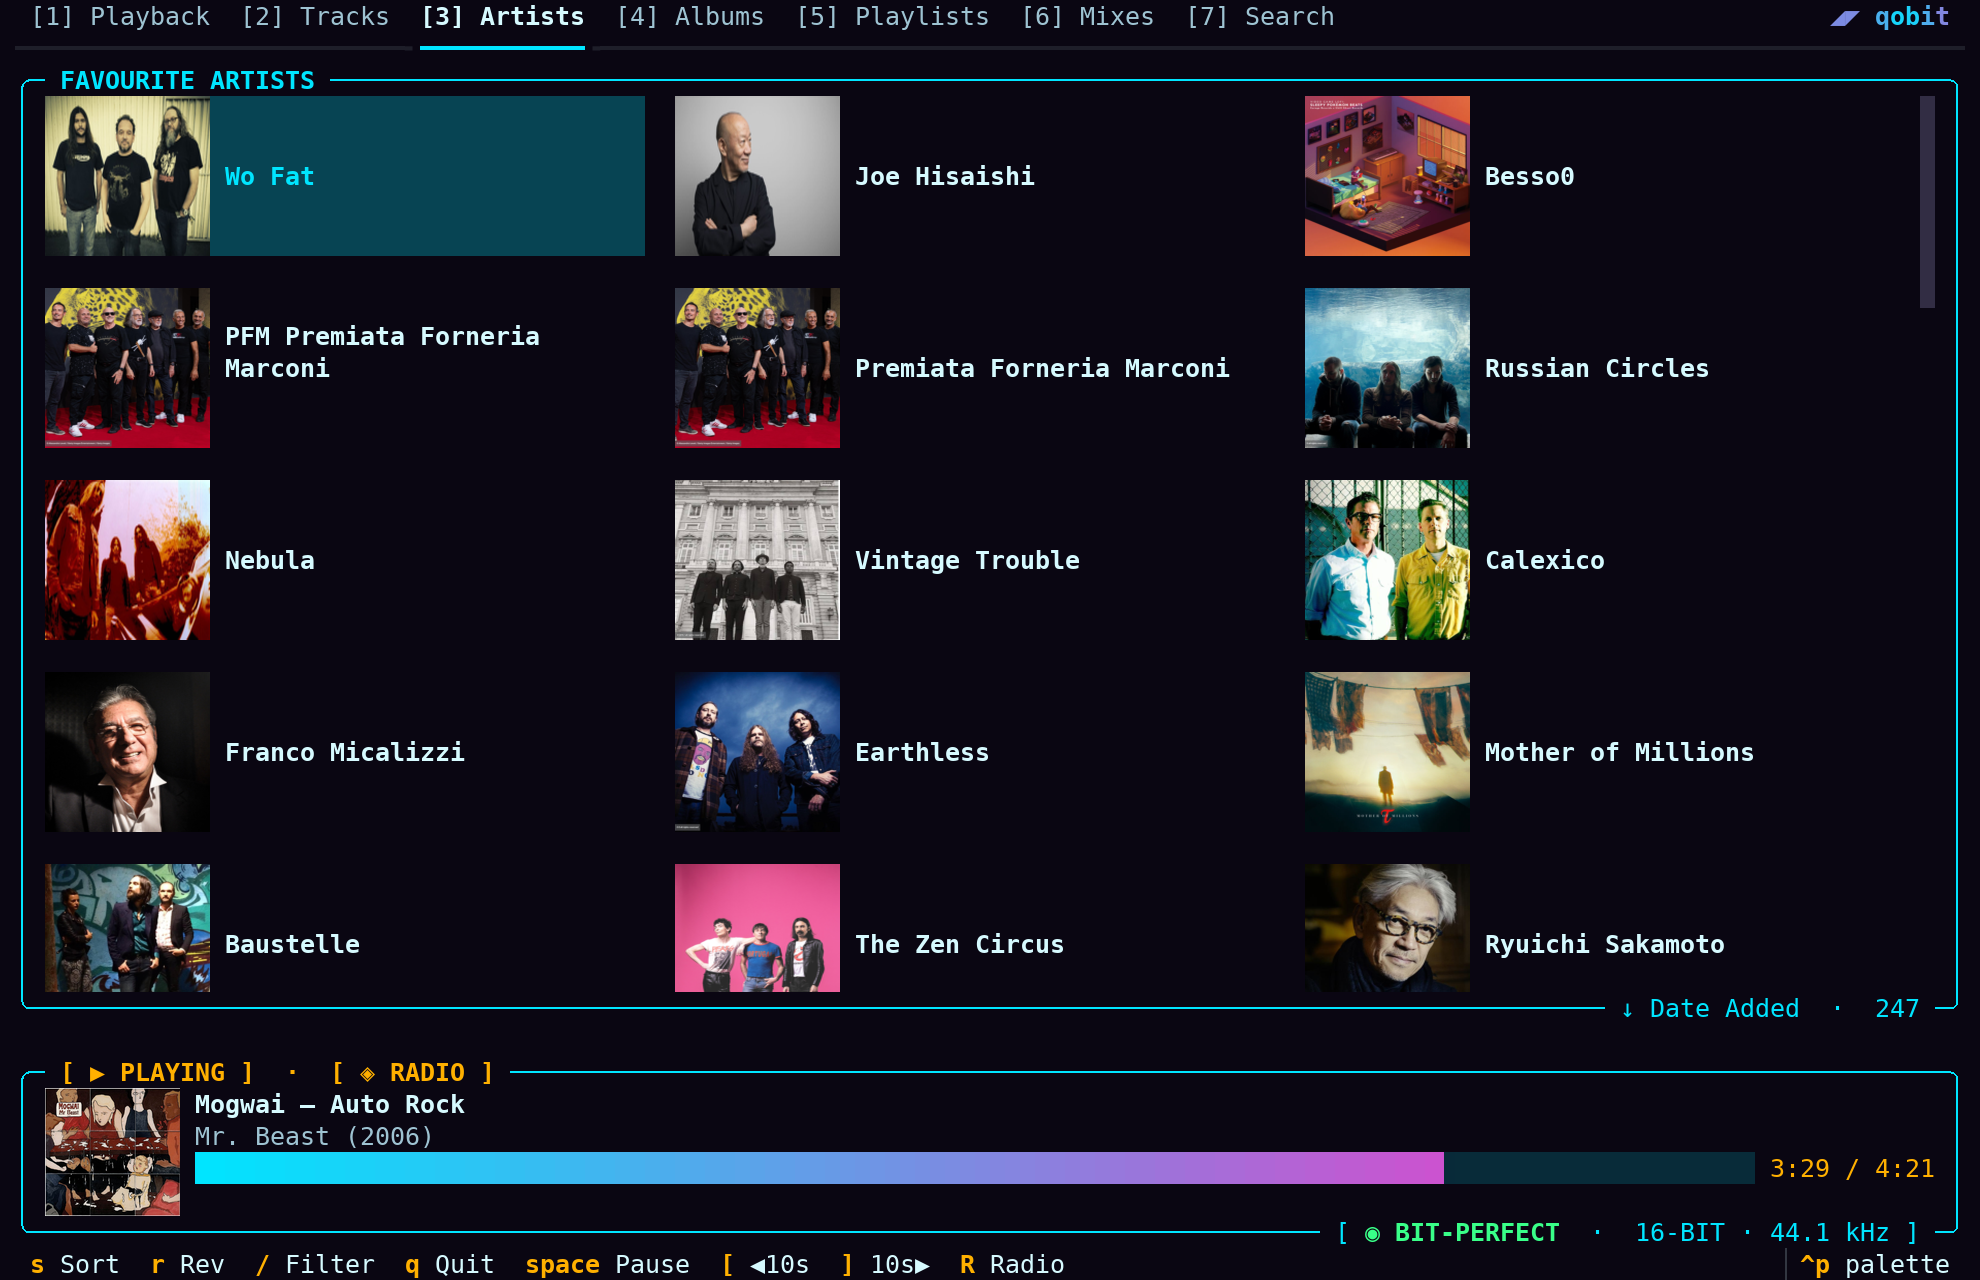
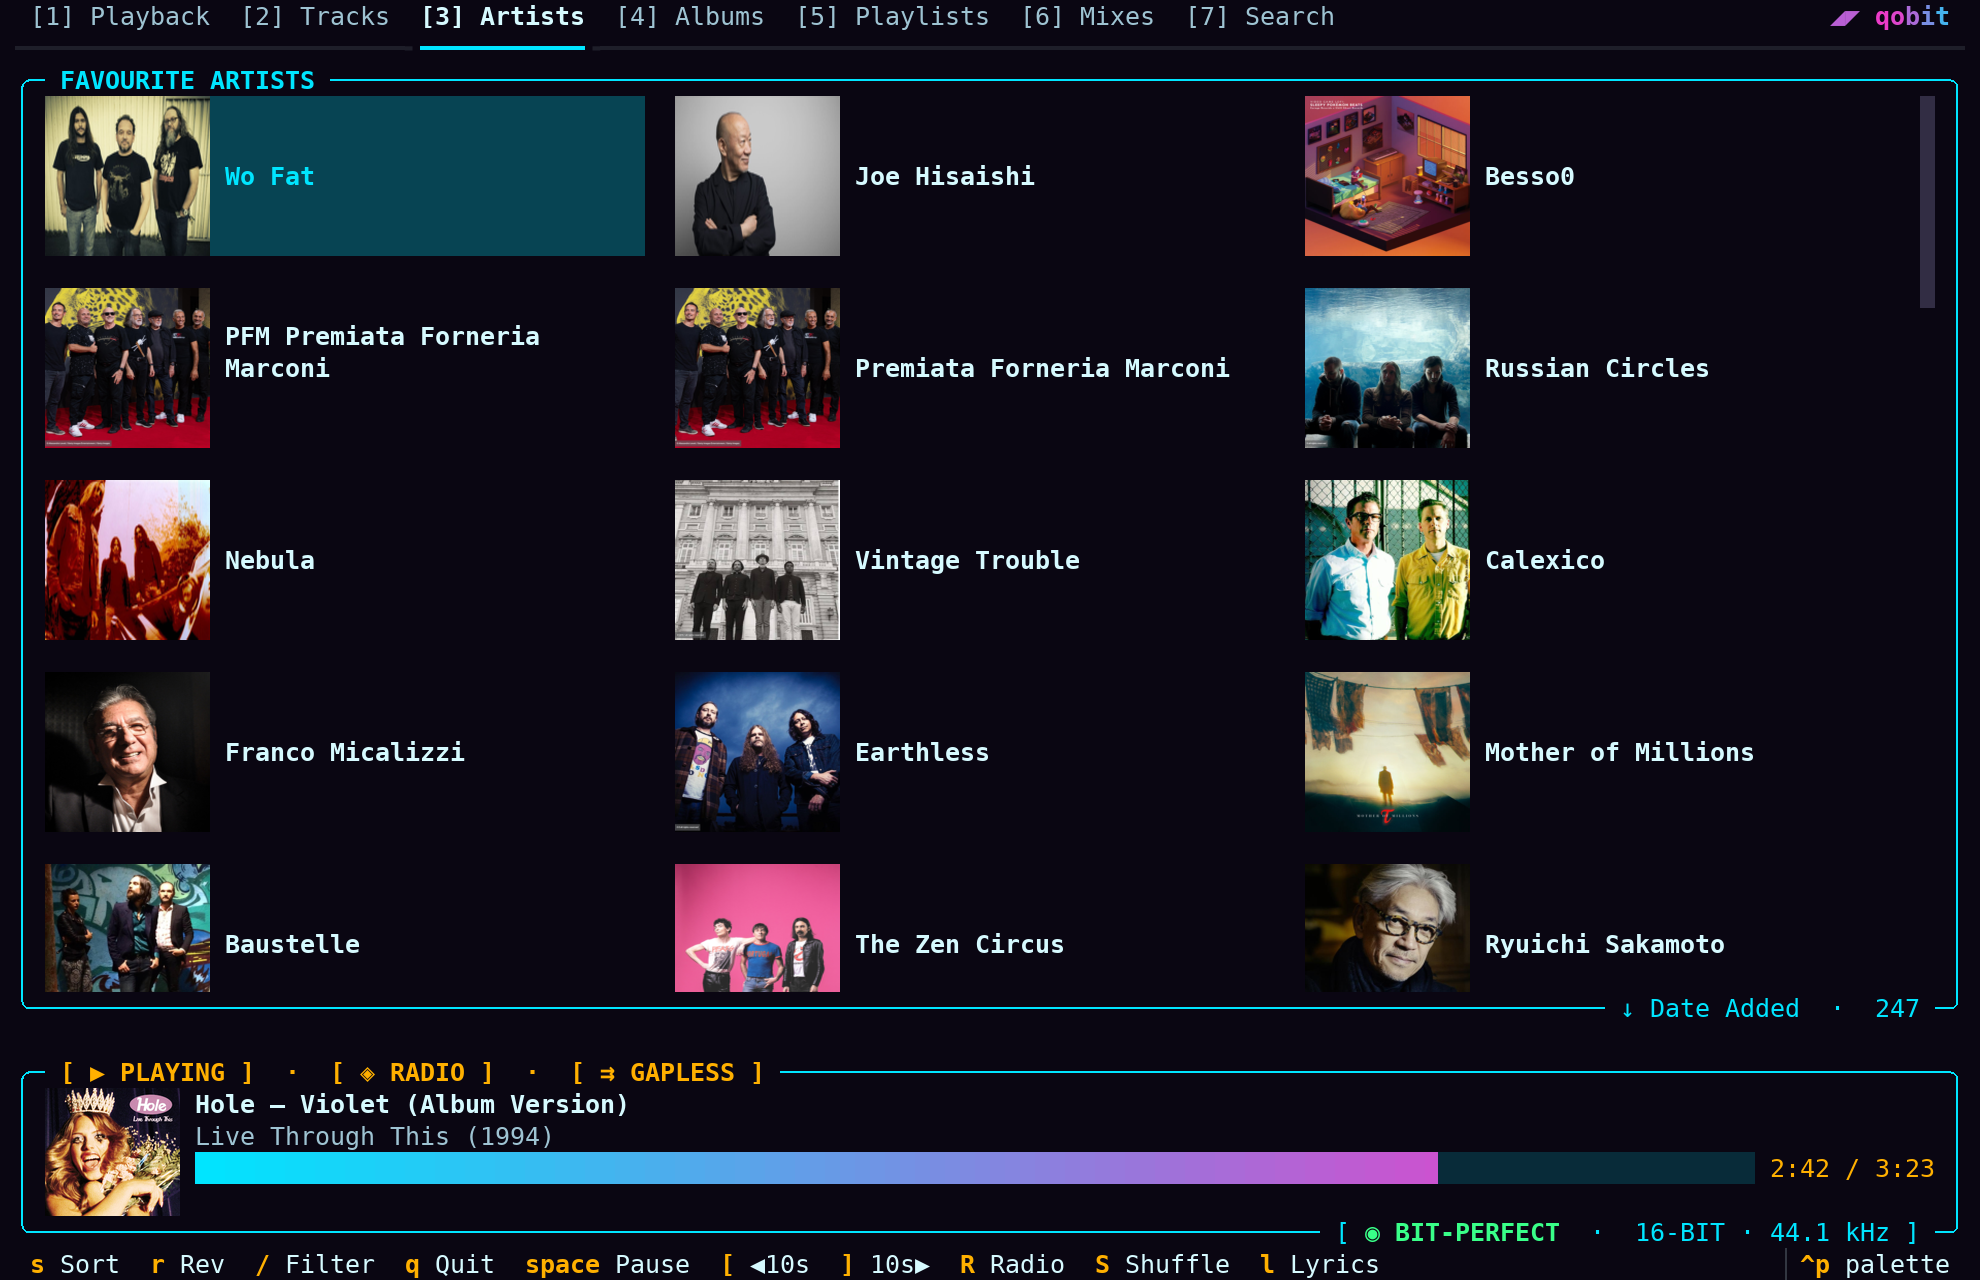
docs: screenshots show the lyrics; README mentions them
The Playback screenshot is 160x48 (queue, now-playing and lyrics side by
side) and plays a track with timed lyrics.

Claude-Session: https://claude.ai/code/session_01PzhvETSu5AxXGsq2NLwyxF

diff --git a/scripts/screenshots.py b/scripts/screenshots.py
@@ -5,10 +5,12 @@ first: ``qobit auth``), and draws its screen to a PNG cell by cell, with the
 cover art pasted over the image cells at full resolution, as a Kitty-protocol
 terminal shows them. Not a terminal capture: no terminal is involved.
 
-What it shows: the cyberdeck theme, Mogwai's "Auto Rock" playing (no audio is
-started: the play state is set, the track, album and bio are the real ones), a
-progress bar past 75% so its gradient shows, and your real favourites in the
-library tabs. Ty Segall's page is opened from Artists (it must be one of your
+What it shows: the cyberdeck theme, The Verve's "Bitter Sweet Symphony" playing
+(no audio is started: the play state is set, the track, album, bio and lyrics
+are the real ones: the lyrics come from LRCLIB, the one request that isn't to
+Qobuz), a progress bar past 75% so its gradient shows, and your real favourites
+in the library tabs. The track must be one of your favourite tracks. Ty
+Segall's page is opened from Artists (it must be one of your
 followed artists; else the first one is used), and his album Possession from
 Albums (same rule).
 
@@ -41,9 +43,13 @@ COLS, ROWS = 132, 40  # wide enough for the artist page's two track lists + Simi
 CELL_W, CELL_H = 15, 32  # a 2x capture of a 7.5 x 16 px cell
 FONT_PX = 25  # DejaVu Sans Mono's advance at this size: 15 px
 
-NOW_PLAYING = ("Mogwai", "Mr. Beast", "Auto Rock")
+NOW_PLAYING = ("Hole", "Violet")  # timed lyrics running past 75% of the track
 ARTIST_PAGE = "Ty Segall"
 ALBUM_PAGE = ("Ty Segall", "Possession")  # an English bio, and a HI-RES readout
+# Scenes that need another size: the Playback tab is 160 wide so the queue, the
+# now-playing panel and the lyrics sit side by side (at 132 the last two stack
+# and the cover has no room); 48 rows keeps the picture's proportions.
+SCENE_SIZE = {"queue_page": (160, 48)}
 PLAYED_FRACTION = 0.8  # of the track: past 75%, where the bar's gradient shows
 
 RGB = tuple[int, int, int]
@@ -217,7 +223,9 @@ def draw_block_or_line(d: ImageDraw.ImageDraw, ch: str, x: int, y: int, fg: RGB,
 def paint(strips, background: RGB, foreground: RGB, fonts: Fonts, missing: set[str]) -> Image.Image:
     """The screen's strips as an image, one cell at a time. Characters no font
     has go into ``missing`` (they're left blank)."""
-    img = Image.new("RGB", (COLS * CELL_W, ROWS * CELL_H), background)
+    img = Image.new(
+        "RGB", (max(s.cell_length for s in strips) * CELL_W, len(strips) * CELL_H), background
+    )
     d = ImageDraw.Draw(img)
     for row, strip in enumerate(strips):
         y = row * CELL_H
@@ -281,6 +289,7 @@ def paste_covers(img: Image.Image, screen) -> None:
 def isolate(tmp: Path) -> None:
     """Point every qobit path at ``tmp`` (settings, queue, covers, library)."""
     from qobit import config, library_cache, store
+    from qobit.lyrics import cache as lyrics_cache
     from qobit.ui import _images
 
     config.CONFIG_DIR = tmp / "config"
@@ -288,6 +297,7 @@ def isolate(tmp: Path) -> None:
     store.DATA_DIR = tmp / "data"
     _images._CACHE_DIR = tmp / "cache"
     library_cache.DIR = tmp / "library"
+    lyrics_cache.DIR = tmp / "lyrics"
 
 
 def fix_cell_size() -> None:
@@ -326,26 +336,25 @@ async def settle(app, pilot: Pilot, quiet: float = 0.8, timeout: float = 60.0) -
 
 
 async def play(app, pilot: Pilot) -> None:
-    """Mogwai's "Auto Rock" as the playing track: the real album, queue and
-    bio; the play state is set by hand (no mpv, no audio)."""
+    """``NOW_PLAYING`` as the playing track: the real album, queue, bio and
+    lyrics; the play state is set by hand (no mpv, no audio)."""
     from qobit.audio.verify import Signal
     from qobit.qobuz.models import Album, StreamUrl
 
-    artist, album_title, title = NOW_PLAYING
-    favourites = await app.ensure_favorite_albums()
-    shelf = [a for a in favourites if a.artist == artist]
-    mine = next((a for a in shelf if a.title == album_title), None)
+    artist, title = NOW_PLAYING
+    tracks = await app.ensure_favorite_tracks()
+    mine = next((t for t in tracks if (t.artist, t.title) == (artist, title)), None)
     if mine is None:
-        sys.exit(f"{artist} - {album_title} isn't one of your favourite albums.")
-    album = Album.from_api(await app._client.get_album(mine.id))
-    now = next(t for t in album.tracks if t.title == title)
+        sys.exit(f"{artist} - {title} isn't one of your favourite tracks.")
+    album = Album.from_api(await app._client.get_album(mine.album_id))
+    now = next(t for t in album.tracks if t.id == mine.id)
     after = album.tracks[album.tracks.index(now) + 1 :]
+    shelf = [a for a in await app.ensure_favorite_albums() if a.artist == artist]
     for other in shelf:  # the artist's other favourite albums follow
         if other.id != album.id:
             after += Album.from_api(await app._client.get_album(other.id)).tracks[:5]
 
     # Before it: a few of your favourite tracks, one per artist.
-    tracks = await app.ensure_favorite_tracks()
     before, seen = [], {artist}
     for t in tracks:
         if t.artist not in seen and len(before) < 5:
@@ -473,6 +482,8 @@ async def run(out: Path, only: list[str], font_dir: Path) -> None:
             for name, scene in SCENES.items():
                 if only and name not in only:
                     continue
+                await pilot.resize_terminal(*SCENE_SIZE.get(name, (COLS, ROWS)))
+                await settle(app, pilot)
                 await scene(app, pilot, fonts)
                 await pilot.pause(0.3)
                 screen = app.screen

diff --git a/README.md b/README.md
@@ -32,7 +32,7 @@ It works best in Ghostty or kitty (see [Terminal](#terminal)).
 
 <div align="center">
 
-<img src="https://raw.githubusercontent.com/pierdom/qobit/main/screenshots/queue_page.png" width="49%" alt="qobit, a Qobuz terminal client: the Playback tab with the queue and the now-playing panel"> <img src="https://raw.githubusercontent.com/pierdom/qobit/main/screenshots/artist_view.png" width="49%" alt="qobit, a Qobuz terminal client: an artist page with bio, top tracks and albums">
+<img src="https://raw.githubusercontent.com/pierdom/qobit/main/screenshots/queue_page.png" width="49%" alt="qobit, a Qobuz terminal client: the Playback tab with the queue, the now-playing panel and synced lyrics"> <img src="https://raw.githubusercontent.com/pierdom/qobit/main/screenshots/artist_view.png" width="49%" alt="qobit, a Qobuz terminal client: an artist page with bio, top tracks and albums">
 
 </div>
 
@@ -49,9 +49,10 @@ It works best in Ghostty or kitty (see [Terminal](#terminal)).
 - A queue you can move back and forth in without losing tracks. It's restored
   when you restart qobit.
 - Shuffle (`S`).
-- Lyrics from LRCLIB, line by line (`l`). Each lookup sends the track's artist,
-  title, album and length to lrclib.net; `--no-lyrics` or the command palette
-  turns it off.
+- Synced lyrics from LRCLIB, shown beside the now-playing panel when the
+  terminal is big enough (`l`). Each lookup sends the track's artist, title,
+  album and length to lrclib.net; `--no-lyrics` or the command palette turns
+  it off.
 - Song radio and personal DailyQ / WeeklyQ mixes from Qobuz recommendations.
 - Artist pages with top tracks, your favourites by that artist, albums and
   similar artists.

diff --git a/CLAUDE.md b/CLAUDE.md
@@ -668,8 +668,10 @@ uv run pytest
   scripts/screenshots.py` (log in first: `qobit auth`). It runs the real app
   headless on your session (paths in a temp dir), draws the screen cell by
   cell with DejaVu Sans Mono (block and box characters drawn, not typeset)
-  and pastes the covers over their cells: cyberdeck, Mogwai "playing" past
-  75% (play state set by hand, no audio), Ty Segall's page and album. Not a
+  and pastes the covers over their cells: cyberdeck, a favourite track with
+  timed lyrics ("playing" past 75%, play state set by hand, no audio; the
+  lyrics come from LRCLIB; the Playback shot is 160x48 so the queue, hero and
+  lyrics sit side by side), Ty Segall's page and album. Not a
   terminal capture. Re-run it after a UI change.
 - Verify UI headless: `app.save_screenshot()` → `rsvg-convert` → PNG (Kitty
   images show as garbage there; real captures need a Kitty-protocol terminal).
